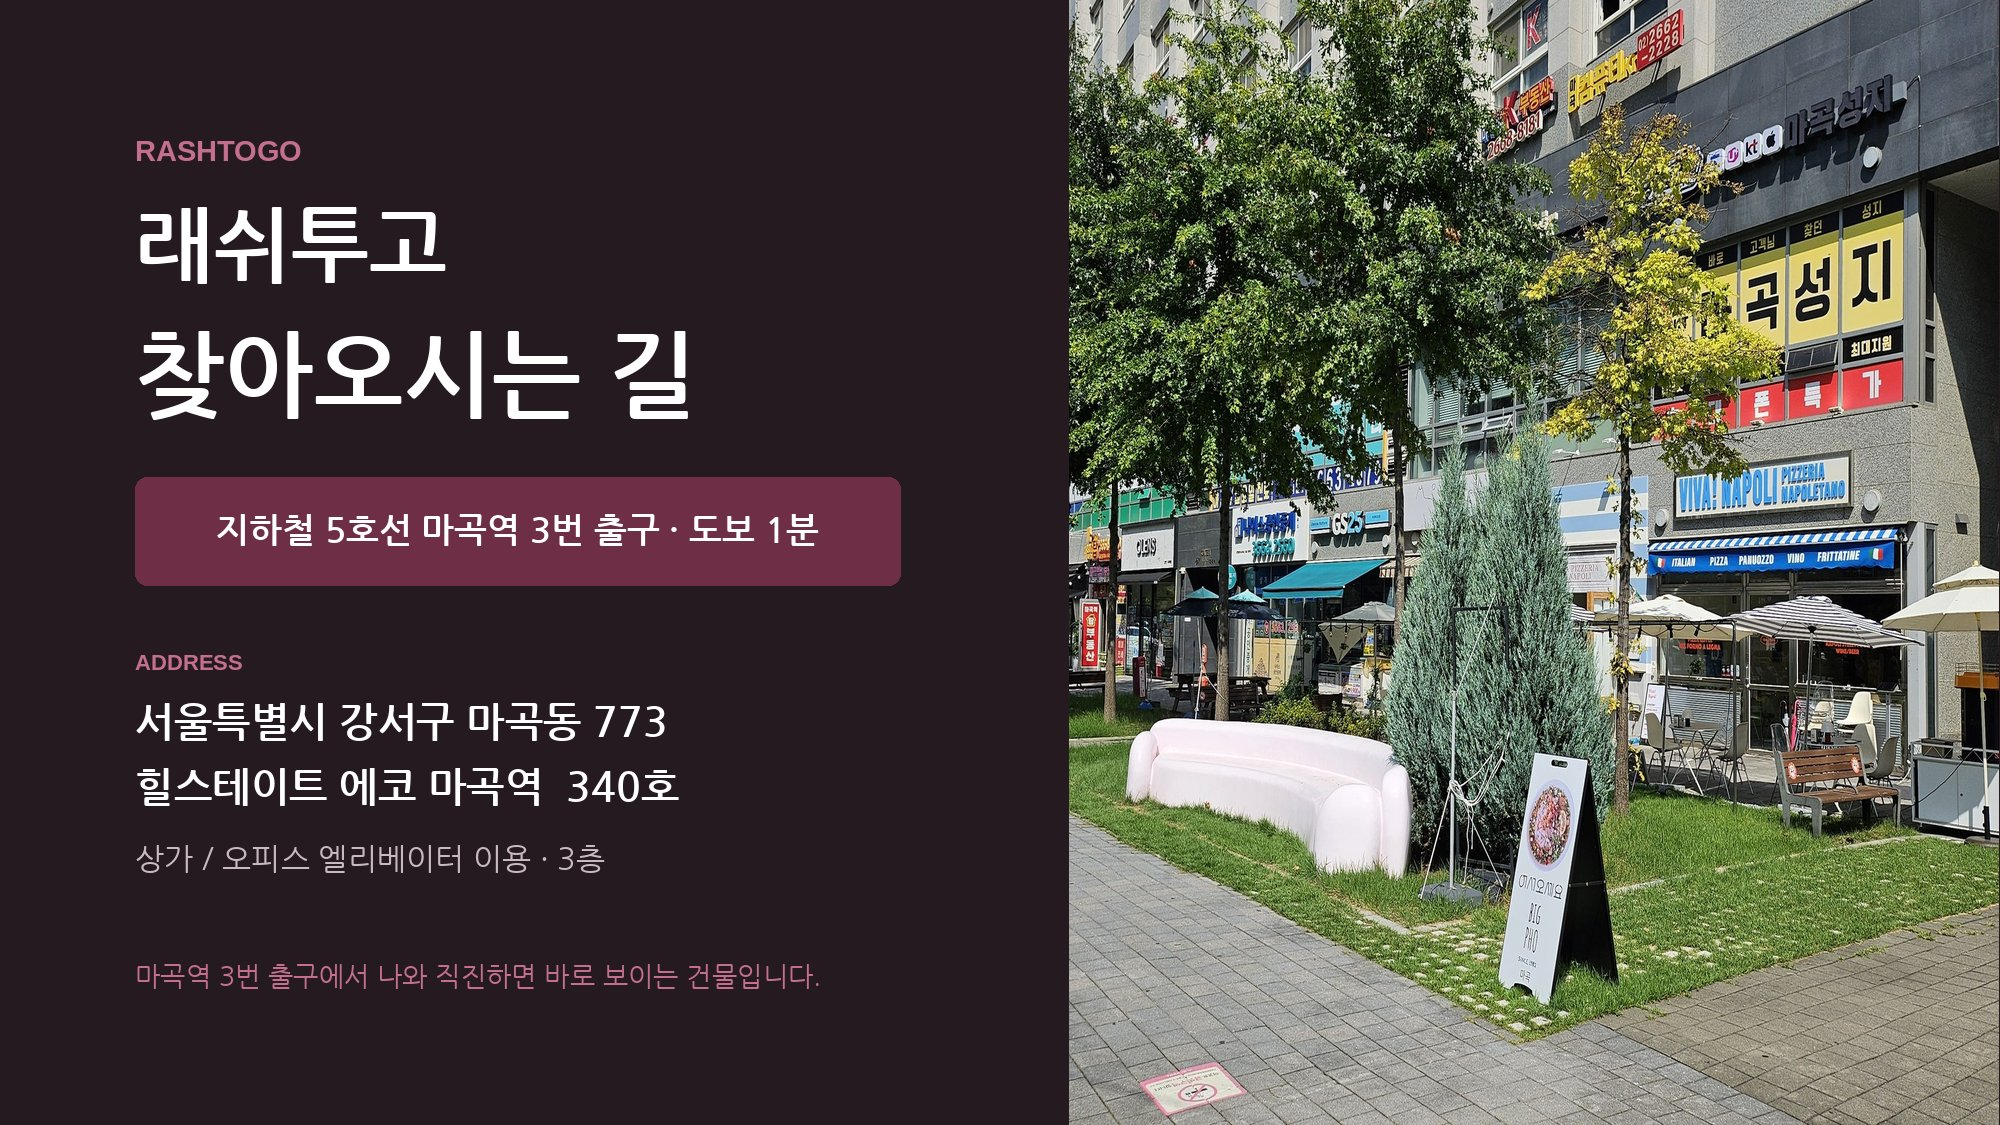
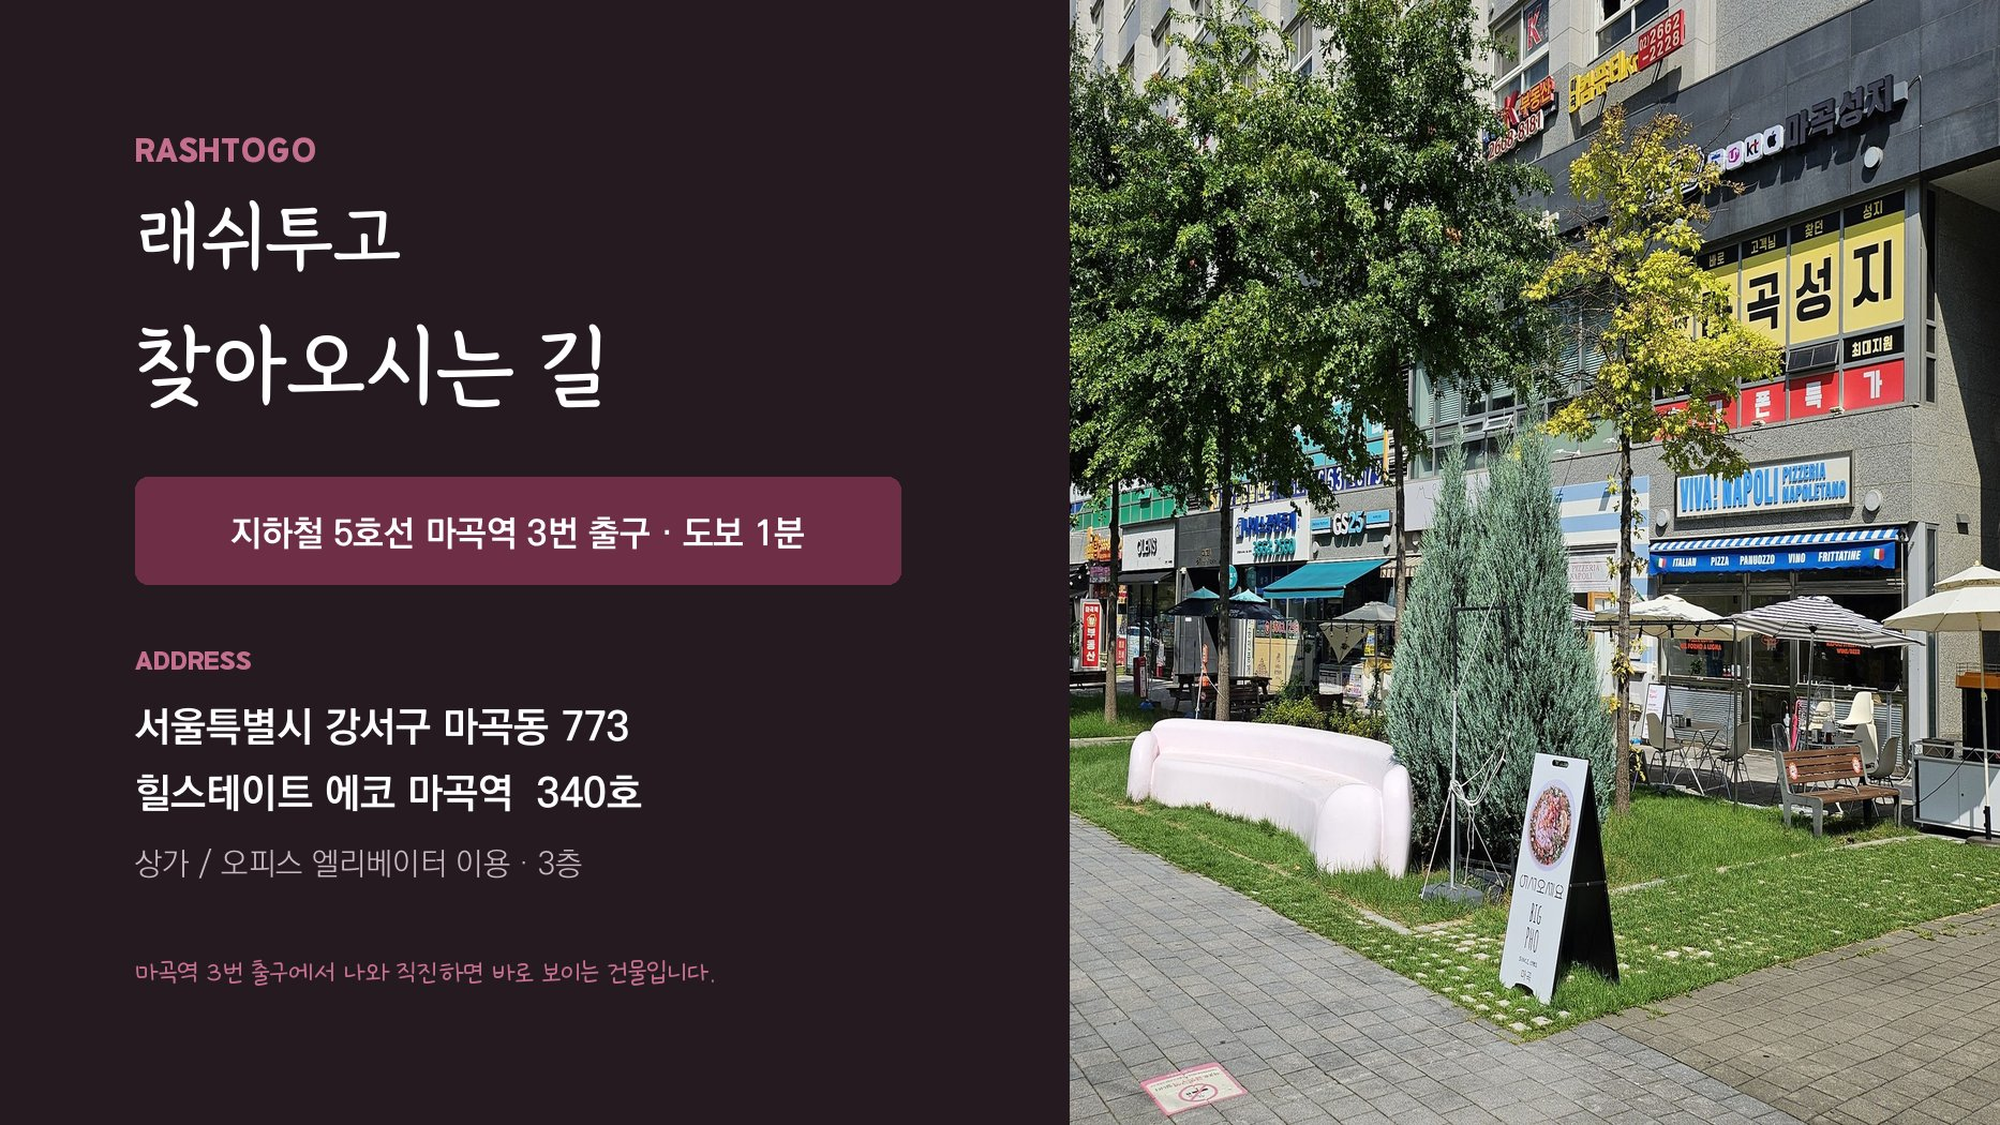
찾아오시는 길 PPT 폰트를 KoPub 2.0 · 강원교육 서체로 교체
- 본문/캡션/강조: KoPubWorld돋움체_Pro Light·Medium·Bold
- 제목·카드 헤드: 강원교육모두 Bold
- 손글씨 한마디: 강원교육새음
- STEP 번호·340호·로고 타입: 강원교육튼튼
- build.js 상단 F 블록으로 서체 이름 일괄 관리
- 강원교육모두 Bold에 가운뎃점 글리프가 없어 3번 슬라이드 제목을
  "3층 340호 도착"으로 변경 (글리프 누락 검사 통과)
- 미리보기 PNG 재생성

Claude-Session: https://claude.ai/code/session_01Hb8UkiUfQkDRWESfmYmHPF

diff --git a/assets/rashtogo-directions/build.js b/assets/rashtogo-directions/build.js
@@ -8,7 +8,20 @@ const TEXT = "2C2229";
 const MUTED = "7B6A72";
 const WHITE = "FFFFFF";
 
-const KR = "맑은 고딕";
+/* ── 폰트 구성 ────────────────────────────────────────────────────────────
+   본문 기본: KoPub 2.0 돋움 (KOPUB2.0_TTF_FONTS)
+   제목/강조: 강원교육 서체 5종
+   ※ PowerPoint 글꼴 목록에 표시되는 이름과 아래 문자열이 정확히 일치해야
+     의도한 서체로 표시됩니다. 다르면 이 블록만 수정 후 다시 빌드하세요.        */
+const F = {
+  body:   "KoPubWorld돋움체_Pro Medium", // 본문
+  light:  "KoPubWorld돋움체_Pro Light",  // 보조 설명 · 캡션
+  strong: "KoPubWorld돋움체_Pro Bold",   // 라벨 · 주소 강조
+  title:  "강원교육모두 Bold",            // 슬라이드 제목 · 카드 헤드
+  hand:   "강원교육새음",                 // 손글씨 한마디
+  power:  "강원교육튼튼",                 // 숫자 · 영문 로고 타입
+};
+const KR = F.body;
 
 const sh = (o = {}) =>
   Object.assign({ type: "outer", color: "000000", blur: 14, offset: 4, angle: 90, opacity: 0.18 }, o);
@@ -29,16 +42,16 @@ s1.addImage({
 });
 
 s1.addText("RASHTOGO", {
-  x: 0.9, y: 0.85, w: 5.6, h: 0.35, isTextBox: true, margin: 0,
-  fontFace: "Arial", fontSize: 14, bold: true, color: ROSE, charSpacing: 6,
+  x: 0.9, y: 0.85, w: 5.6, h: 0.38, isTextBox: true, margin: 0,
+  fontFace: F.power, fontSize: 15, color: ROSE, charSpacing: 6,
 });
 s1.addText("래쉬투고", {
   x: 0.9, y: 1.24, w: 5.9, h: 0.85, isTextBox: true, margin: 0,
-  fontFace: KR, fontSize: 40, bold: true, color: WHITE,
+  fontFace: F.title, fontSize: 40, color: WHITE,
 });
 s1.addText("찾아오시는 길", {
   x: 0.9, y: 2.06, w: 5.9, h: 0.95, isTextBox: true, margin: 0,
-  fontFace: KR, fontSize: 46, bold: true, color: WHITE,
+  fontFace: F.title, fontSize: 46, color: WHITE,
 });
 
 // 지하철 배지
@@ -48,30 +61,30 @@ s1.addShape(pres.ShapeType.roundRect, {
 });
 s1.addText("지하철 5호선 마곡역 3번 출구 · 도보 1분", {
   x: 0.9, y: 3.18, w: 5.1, h: 0.72, isTextBox: true, align: "center", valign: "middle",
-  fontFace: KR, fontSize: 17, bold: true, color: WHITE,
+  fontFace: F.strong, fontSize: 17, color: WHITE,
 });
 
 // 주소 블록
 s1.addText("ADDRESS", {
   x: 0.9, y: 4.28, w: 5.9, h: 0.3, isTextBox: true, margin: 0,
-  fontFace: "Arial", fontSize: 11, bold: true, color: ROSE, charSpacing: 4,
+  fontFace: F.power, fontSize: 12, color: ROSE, charSpacing: 4,
 });
 s1.addText("서울특별시 강서구 마곡동 773", {
   x: 0.9, y: 4.62, w: 5.9, h: 0.42, isTextBox: true, margin: 0,
-  fontFace: KR, fontSize: 20, bold: true, color: WHITE,
+  fontFace: F.strong, fontSize: 20, color: WHITE,
 });
 s1.addText("힐스테이트 에코 마곡역  340호", {
   x: 0.9, y: 5.06, w: 5.9, h: 0.42, isTextBox: true, margin: 0,
-  fontFace: KR, fontSize: 20, bold: true, color: WHITE,
+  fontFace: F.strong, fontSize: 20, color: WHITE,
 });
 s1.addText("상가 / 오피스 엘리베이터 이용 · 3층", {
   x: 0.9, y: 5.56, w: 5.9, h: 0.36, isTextBox: true, margin: 0,
-  fontFace: KR, fontSize: 15, color: "C9B9C0",
+  fontFace: F.light, fontSize: 15, color: "C9B9C0",
 });
 
 s1.addText("마곡역 3번 출구에서 나와 직진하면 바로 보이는 건물입니다.", {
-  x: 0.9, y: 6.32, w: 5.9, h: 0.4, isTextBox: true, margin: 0,
-  fontFace: KR, fontSize: 13, italic: true, color: ROSE,
+  x: 0.9, y: 6.28, w: 5.9, h: 0.45, isTextBox: true, margin: 0,
+  fontFace: F.hand, fontSize: 17, color: ROSE,
 });
 s1.addNotes("래쉬투고 찾아오시는 길 안내. 주소: 서울특별시 강서구 마곡동 773 힐스테이트 에코 마곡역 340호. 마곡역 3번 출구 도보 1분.");
 
@@ -81,11 +94,11 @@ s2.background = { color: WHITE };
 
 s2.addText("마곡역에서 오시는 길", {
   x: 0.6, y: 0.55, w: 8.5, h: 0.7, isTextBox: true, margin: 0,
-  fontFace: KR, fontSize: 36, bold: true, color: TEXT,
+  fontFace: F.title, fontSize: 36, color: TEXT,
 });
 s2.addText("3번 출구 기준 · 도보 1분", {
   x: 0.6, y: 1.22, w: 8.5, h: 0.4, isTextBox: true, margin: 0,
-  fontFace: KR, fontSize: 15, color: MUTED,
+  fontFace: F.light, fontSize: 15, color: MUTED,
 });
 s2.addShape(pres.ShapeType.roundRect, {
   x: 10.55, y: 0.62, w: 2.18, h: 0.62, rectRadius: 0.3,
@@ -93,7 +106,7 @@ s2.addShape(pres.ShapeType.roundRect, {
 });
 s2.addText("총 3 STEP", {
   x: 10.55, y: 0.62, w: 2.18, h: 0.62, isTextBox: true, align: "center", valign: "middle",
-  fontFace: KR, fontSize: 15, bold: true, color: BERRY,
+  fontFace: F.strong, fontSize: 15, color: BERRY,
 });
 
 const steps = [
@@ -131,15 +144,15 @@ steps.forEach((st, i) => {
   });
   s2.addText(`${i + 1}`, {
     x: x + 0.24, y: CY + 2.45, w: 0.6, h: 0.6, isTextBox: true, align: "center", valign: "middle",
-    fontFace: "Arial", fontSize: 22, bold: true, color: WHITE,
+    fontFace: F.power, fontSize: 24, color: WHITE,
   });
   s2.addText(st.head, {
-    x: x + 0.24, y: CY + 3.2, w: CW - 0.48, h: 0.45, isTextBox: true, margin: 0,
-    fontFace: KR, fontSize: 19, bold: true, color: TEXT,
+    x: x + 0.24, y: CY + 3.18, w: CW - 0.48, h: 0.48, isTextBox: true, margin: 0,
+    fontFace: F.title, fontSize: 20, color: TEXT,
   });
   s2.addText(st.body, {
-    x: x + 0.24, y: CY + 3.7, w: CW - 0.48, h: 0.78, isTextBox: true, margin: 0,
-    fontFace: KR, fontSize: 13, color: MUTED, lineSpacingMultiple: 1.25,
+    x: x + 0.24, y: CY + 3.72, w: CW - 0.48, h: 0.8, isTextBox: true, margin: 0,
+    fontFace: F.body, fontSize: 13, color: MUTED, lineSpacingMultiple: 1.3,
   });
 });
 s2.addNotes("STEP 1 마곡역 3번 출구 → STEP 2 GATE 1 통로 진입 → STEP 3 GATE 4 상가/오피스 엘리베이터 탑승 후 3층.");
@@ -148,13 +161,13 @@ s2.addNotes("STEP 1 마곡역 3번 출구 → STEP 2 GATE 1 통로 진입 → ST
 const s3 = pres.addSlide();
 s3.background = { color: WHITE };
 
-s3.addText("도착 · 3층 340호", {
+s3.addText("3층 340호 도착", {
   x: 0.6, y: 0.55, w: 7.4, h: 0.7, isTextBox: true, margin: 0,
-  fontFace: KR, fontSize: 36, bold: true, color: TEXT,
+  fontFace: F.title, fontSize: 36, color: TEXT,
 });
 s3.addText("엘리베이터 홀에서 3층 버튼을 눌러 주세요.", {
   x: 0.6, y: 1.22, w: 7.4, h: 0.4, isTextBox: true, margin: 0,
-  fontFace: KR, fontSize: 15, color: MUTED,
+  fontFace: F.light, fontSize: 15, color: MUTED,
 });
 
 // 큰 호수 콜아웃
@@ -163,18 +176,18 @@ s3.addShape(pres.ShapeType.roundRect, {
   fill: { color: INK }, line: { type: "none" }, shadow: sh({ blur: 16, offset: 4, opacity: 0.25 }),
 });
 s3.addText([
-  { text: "340", options: { fontFace: "Arial", fontSize: 60, bold: true, color: WHITE } },
-  { text: "호", options: { fontFace: KR, fontSize: 30, bold: true, color: ROSE } },
+  { text: "340", options: { fontFace: F.power, fontSize: 62, color: WHITE } },
+  { text: "호", options: { fontFace: F.power, fontSize: 30, color: ROSE } },
 ], {
   x: 0.95, y: 2.08, w: 4.5, h: 1.2, isTextBox: true, margin: 0, valign: "middle",
 });
 s3.addText("힐스테이트 에코 마곡역 상가 3층", {
   x: 0.98, y: 3.28, w: 4.5, h: 0.4, isTextBox: true, margin: 0,
-  fontFace: KR, fontSize: 14, color: "C9B9C0",
+  fontFace: F.light, fontSize: 14, color: "C9B9C0",
 });
 s3.addText("엘리베이터 하차 후 층 안내판을 확인해 주세요.", {
-  x: 0.6, y: 4.22, w: 5.2, h: 0.35, isTextBox: true, margin: 0,
-  fontFace: KR, fontSize: 12, color: MUTED,
+  x: 0.6, y: 4.2, w: 5.2, h: 0.4, isTextBox: true, margin: 0,
+  fontFace: F.hand, fontSize: 15, color: MUTED,
 });
 
 // 체크포인트
@@ -194,12 +207,12 @@ checks.forEach(([label, val], i) => {
     fill: { color: BERRY }, line: { type: "none" },
   });
   s3.addText(label, {
-    x: 1.2, y: y, w: 1.7, h: 0.3, isTextBox: true, margin: 0,
-    fontFace: KR, fontSize: 12, bold: true, color: BERRY,
+    x: 1.2, y: y, w: 1.9, h: 0.3, isTextBox: true, margin: 0,
+    fontFace: F.strong, fontSize: 12, color: BERRY,
   });
   s3.addText(val, {
     x: 1.2, y: y + 0.28, w: 4.6, h: 0.34, isTextBox: true, margin: 0,
-    fontFace: KR, fontSize: 14, color: TEXT,
+    fontFace: F.body, fontSize: 14, color: TEXT,
   });
 });
 
@@ -208,16 +221,16 @@ s3.addImage({
   sizing: { type: "cover", w: 3.3, h: 3.3 },
 });
 s3.addText("GATE 1 통로 입구", {
-  x: 6.25, y: 5.34, w: 3.3, h: 0.32, isTextBox: true, margin: 0,
-  fontFace: KR, fontSize: 12, color: MUTED,
+  x: 6.25, y: 5.32, w: 3.3, h: 0.34, isTextBox: true, margin: 0,
+  fontFace: F.light, fontSize: 12, color: MUTED,
 });
 s3.addImage({
   path: "images/card3.jpg", x: 9.83, y: 1.95, w: 2.9, h: 3.3,
   sizing: { type: "cover", w: 2.9, h: 3.3 },
 });
 s3.addText("GATE 4 엘리베이터 홀", {
-  x: 9.83, y: 5.34, w: 2.9, h: 0.32, isTextBox: true, margin: 0,
-  fontFace: KR, fontSize: 12, color: MUTED,
+  x: 9.83, y: 5.32, w: 2.9, h: 0.34, isTextBox: true, margin: 0,
+  fontFace: F.light, fontSize: 12, color: MUTED,
 });
 
 s3.addShape(pres.ShapeType.roundRect, {
@@ -226,11 +239,11 @@ s3.addShape(pres.ShapeType.roundRect, {
 });
 s3.addText("서울특별시 강서구 마곡동 773 힐스테이트 에코 마곡역 340호", {
   x: 6.55, y: 6.06, w: 5.9, h: 0.36, isTextBox: true, margin: 0,
-  fontFace: KR, fontSize: 14, bold: true, color: TEXT,
+  fontFace: F.strong, fontSize: 14, color: TEXT,
 });
 s3.addText("지하철 5호선 마곡역 3번 출구에서 도보 1분", {
   x: 6.55, y: 6.44, w: 5.9, h: 0.36, isTextBox: true, margin: 0,
-  fontFace: KR, fontSize: 13, color: MUTED,
+  fontFace: F.body, fontSize: 13, color: MUTED,
 });
 s3.addNotes("도착 안내: 상가/오피스 엘리베이터로 3층 이동, 340호. 주소 서울특별시 강서구 마곡동 773 힐스테이트 에코 마곡역.");
 

diff --git a/assets/rashtogo-directions/README.md b/assets/rashtogo-directions/README.md
@@ -15,6 +15,25 @@
 2. **3 STEP 경로** — 3번 출구 → GATE 1 통로 → GATE 4 엘리베이터
 3. **도착 안내** — 3층 340호, 1층 랜드마크 체크포인트
 
+## 폰트 구성
+
+`build.js` 상단 `F` 블록에서 한 곳으로 관리합니다.
+
+| 용도 | 서체 | 적용 위치 |
+|---|---|---|
+| 본문 기본 | `KoPubWorld돋움체_Pro Medium` | 스텝 설명, 체크포인트 값, 주소 요약 |
+| 보조 · 캡션 | `KoPubWorld돋움체_Pro Light` | 부제목, 사진 캡션, 층 안내 |
+| 라벨 · 강조 | `KoPubWorld돋움체_Pro Bold` | 지하철 배지, 주소, 항목 라벨 |
+| 제목 | `강원교육모두 Bold` | 슬라이드 제목, 카드 헤드라인 |
+| 손글씨 한마디 | `강원교육새음` | "바로 보이는 건물입니다", "층 안내판 확인" |
+| 숫자 · 로고 타입 | `강원교육튼튼` | STEP 번호, `340호`, `RASHTOGO` |
+
+- 두 폰트 모두 이 폴더와 같은 위치의 `KOPUB2.0_TTF_FONTS`, `강원교육 서체(5종)_TTF(windows용)`
+  파일을 **PC에 설치한 뒤** 열어야 의도한 서체로 표시됩니다.
+- 서체 이름은 PowerPoint 글꼴 목록에 나오는 문자열과 **정확히 일치**해야 합니다.
+  설치 후 이름이 다르면 `build.js`의 `F` 블록만 고쳐 다시 빌드하세요.
+- 강원교육모두 Bold에는 가운뎃점(`·`) 글리프가 없어 제목 문구에서는 사용하지 않았습니다.
+
 ## 안내 정보
 
 - 주소: 서울특별시 강서구 마곡동 773, 힐스테이트 에코 마곡역 340호
